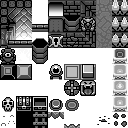
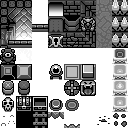
Designed Barrel Sprites
created normal barrel sprite.
created explosive barrel sprite.
created exploding barrel sprite.

Changed region(s): [[0.0, 0.625, 0.25, 0.75], [0.25, 0.2812, 0.375, 0.5]]

diff --git a/GameClasses/DataClasses.cs b/GameClasses/DataClasses.cs
@@ -35,7 +35,7 @@ namespace DungeonRun
         public static Boolean PrintOutput = true; //print output to the debugger
         public static Boolean ShowDialogs = true; //turn dialogs on/off
         //cheats
-        public static Boolean Invincibility = true; //does hero ignore damage?
+        public static Boolean Invincibility = false; //does hero ignore damage?
         public static Boolean InfiniteMagic = true; //does hero ignore magic costs?
         public static Boolean InfiniteGold = false; //does hero ignore item/vendor costs?
         public static Boolean InfiniteArrows = true; //does hero ignore arrow cost?
